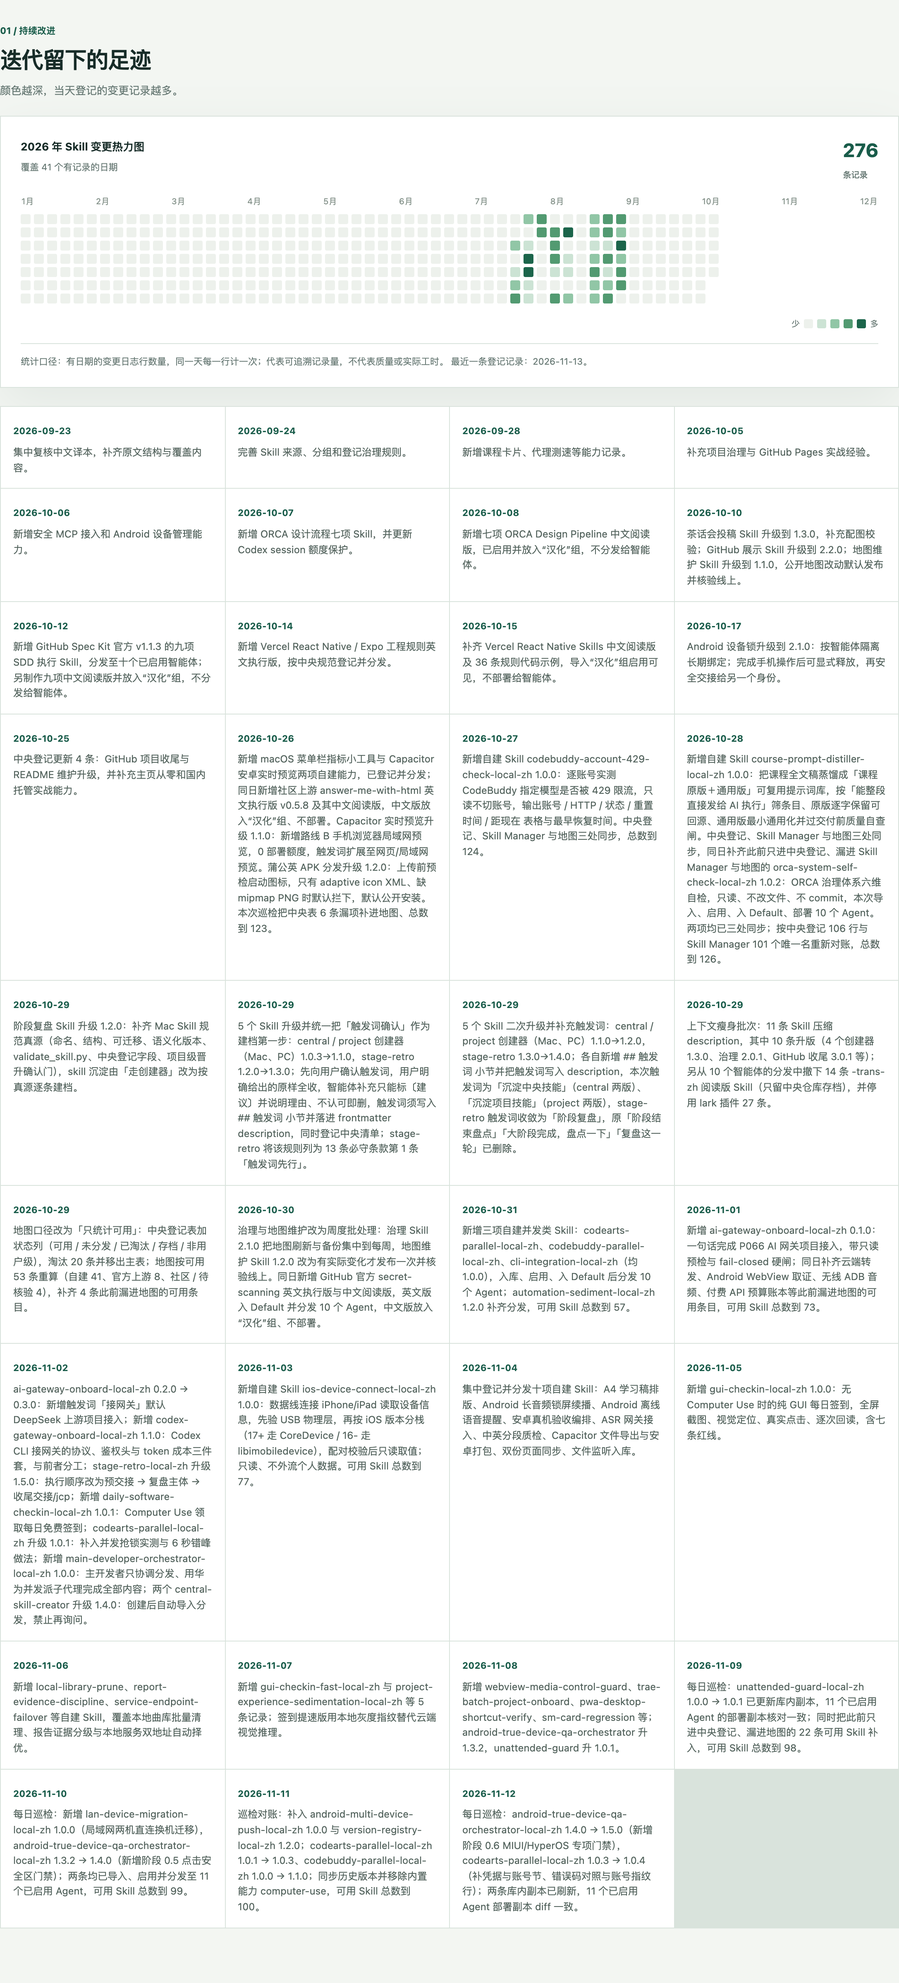
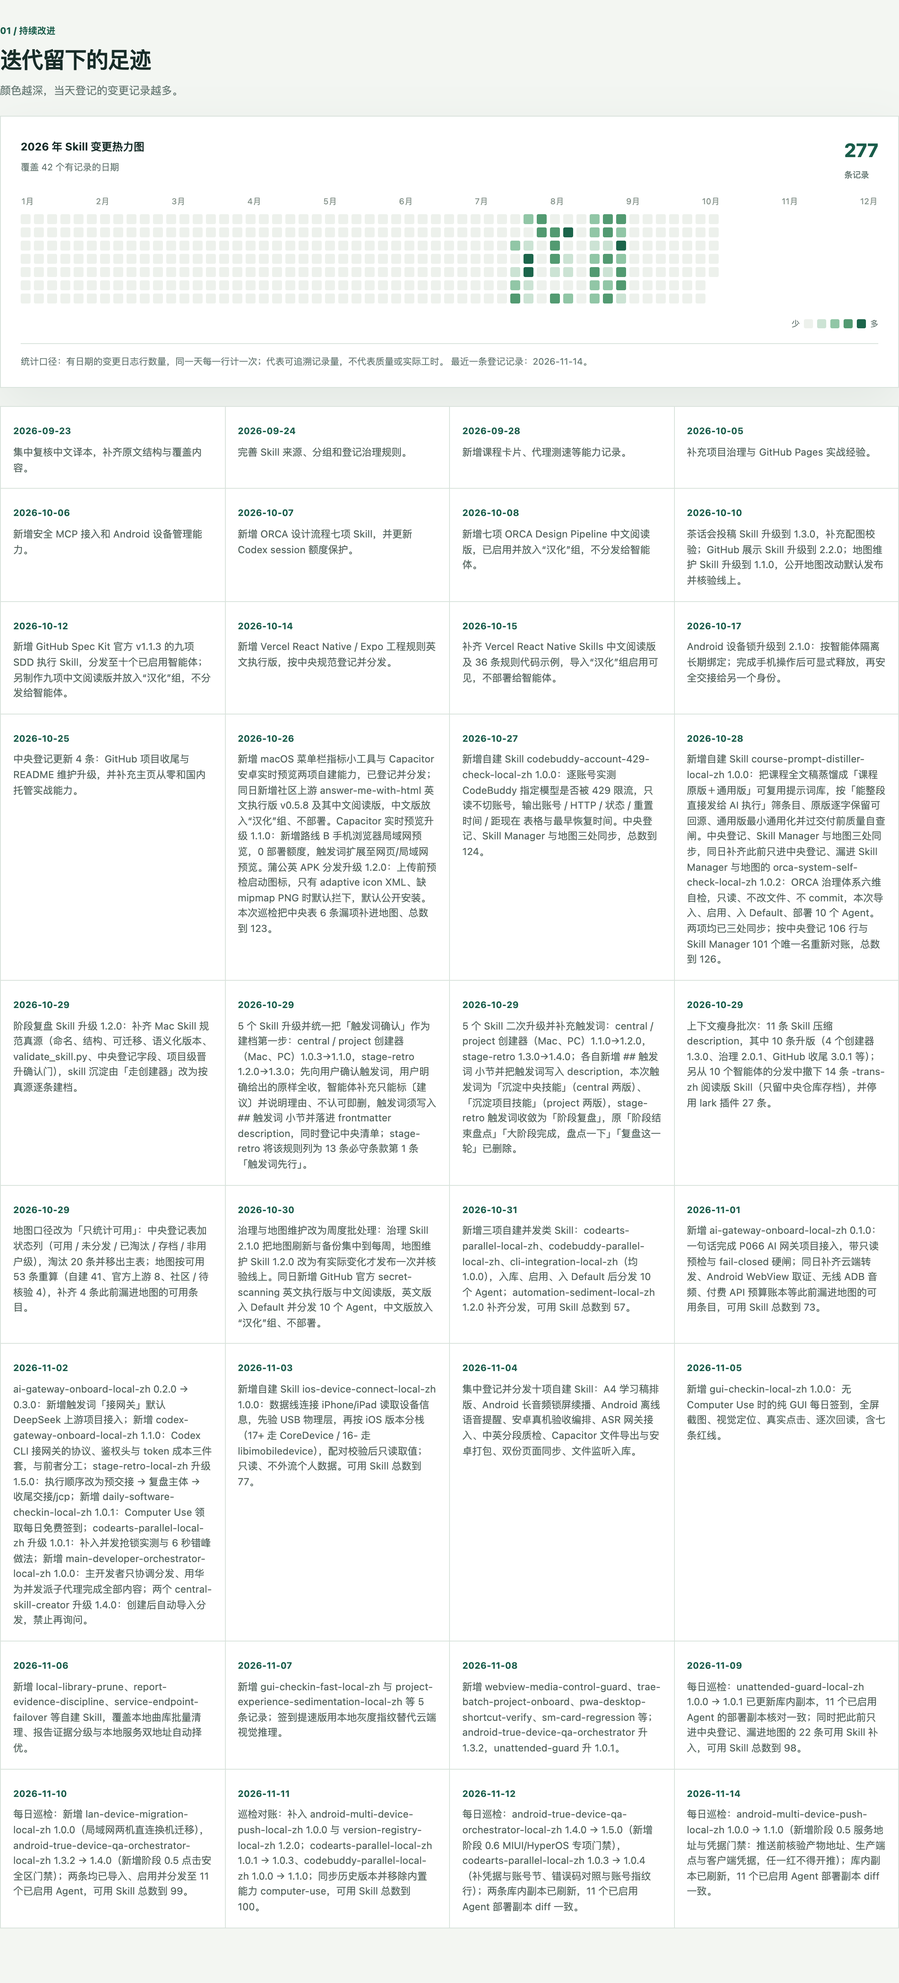
巡检：同步 2026-11-15 技能地图（android 多机推送 1.1.0 / 热力 277）

Changed region(s): [[0.7397, 0.8699, 1.0, 0.9942], [0.9554, 0.0621, 0.9862, 0.0932]]

diff --git a/index.html b/index.html
@@ -119,7 +119,7 @@
     }
     document.getElementById('heatMonths').innerHTML=['1月','2月','3月','4月','5月','6月','7月','8月','9月','10月','11月','12月'].map(x=>`<span>${x}</span>`).join('');
     const dated=[...data.events].sort((a,b)=>b.date.localeCompare(a.date));const latest=dated[0]?.date||'—';document.getElementById('heatCaption').textContent=`统计口径：${data.countDefinition} 最近一条登记记录：${latest}。`;
-    const highlights=[['2026-09-23','集中复核中文译本，补齐原文结构与覆盖内容。'],['2026-09-24','完善 Skill 来源、分组和登记治理规则。'],['2026-09-28','新增课程卡片、代理测速等能力记录。'],['2026-10-05','补充项目治理与 GitHub Pages 实战经验。'],['2026-10-06','新增安全 MCP 接入和 Android 设备管理能力。'],['2026-10-07','新增 ORCA 设计流程七项 Skill，并更新 Codex session 额度保护。'],['2026-10-08','新增七项 ORCA Design Pipeline 中文阅读版，已启用并放入“汉化”组，不分发给智能体。'],['2026-10-10','茶话会投稿 Skill 升级到 1.3.0，补充配图校验；GitHub 展示 Skill 升级到 2.2.0；地图维护 Skill 升级到 1.1.0，公开地图改动默认发布并核验线上。'],['2026-10-12','新增 GitHub Spec Kit 官方 v1.1.3 的九项 SDD 执行 Skill，分发至十个已启用智能体；另制作九项中文阅读版并放入“汉化”组，不分发给智能体。'],['2026-10-14','新增 Vercel React Native / Expo 工程规则英文执行版，按中央规范登记并分发。'],['2026-10-15','补齐 Vercel React Native Skills 中文阅读版及 36 条规则代码示例，导入“汉化”组启用可见，不部署给智能体。'],['2026-10-17','Android 设备锁升级到 2.1.0：按智能体隔离长期绑定；完成手机操作后可显式释放，再安全交接给另一个身份。'],['2026-10-25','中央登记更新 4 条：GitHub 项目收尾与 README 维护升级，并补充主页从零和国内托管实战能力。'],['2026-10-26','新增 macOS 菜单栏指标小工具与 Capacitor 安卓实时预览两项自建能力，已登记并分发；同日新增社区上游 answer-me-with-html 英文执行版 v0.5.8 及其中文阅读版，中文版放入“汉化”组、不部署。Capacitor 实时预览升级 1.1.0：新增路线 B 手机浏览器局域网预览，0 部署额度，触发词扩展至网页/局域网预览。蒲公英 APK 分发升级 1.2.0：上传前预检启动图标，只有 adaptive icon XML、缺 mipmap PNG 时默认拦下，默认公开安装。本次巡检把中央表 6 条漏项补进地图、总数到 123。'],['2026-10-27','新增自建 Skill codebuddy-account-429-check-local-zh 1.0.0：逐账号实测 CodeBuddy 指定模型是否被 429 限流，只读不切账号，输出账号 / HTTP / 状态 / 重置时间 / 距现在 表格与最早恢复时间。中央登记、Skill Manager 与地图三处同步，总数到 124。'],['2026-10-28','新增自建 Skill course-prompt-distiller-local-zh 1.0.0：把课程全文稿蒸馏成「课程原版＋通用版」可复用提示词库，按「能整段直接发给 AI 执行」筛条目、原版逐字保留可回源、通用版最小通用化并过交付前质量自查闸。中央登记、Skill Manager 与地图三处同步，同日补齐此前只进中央登记、漏进 Skill Manager 与地图的 orca-system-self-check-local-zh 1.0.2：ORCA 治理体系六维自检，只读、不改文件、不 commit，本次导入、启用、入 Default、部署 10 个 Agent。两项均已三处同步；按中央登记 106 行与 Skill Manager 101 个唯一名重新对账，总数到 126。'],['2026-10-29','阶段复盘 Skill 升级 1.2.0：补齐 Mac Skill 规范真源（命名、结构、可迁移、语义化版本、validate_skill.py、中央登记字段、项目级晋升确认门），skill 沉淀由「走创建器」改为按真源逐条建档。'],['2026-10-29','5 个 Skill 升级并统一把「触发词确认」作为建档第一步：central / project 创建器（Mac、PC）1.0.3→1.1.0，stage-retro 1.2.0→1.3.0；先向用户确认触发词，用户明确给出的原样全收，智能体补充只能标〔建议〕并说明理由、不认可即删，触发词须写入 ## 触发词 小节并落进 frontmatter description，同时登记中央清单；stage-retro 将该规则列为 13 条必守条款第 1 条「触发词先行」。'],['2026-10-29','5 个 Skill 二次升级并补充触发词：central / project 创建器（Mac、PC）1.1.0→1.2.0，stage-retro 1.3.0→1.4.0；各自新增 ## 触发词 小节并把触发词写入 description，本次触发词为「沉淀中央技能」（central 两版）、「沉淀项目技能」（project 两版），stage-retro 触发词收敛为「阶段复盘」，原「阶段结束盘点」「大阶段完成，盘点一下」「复盘这一轮」已删除。'],['2026-10-29','上下文瘦身批次：11 条 Skill 压缩 description，其中 10 条升版（4 个创建器 1.3.0、治理 2.0.1、GitHub 收尾 3.0.1 等）；另从 10 个智能体的分发中撤下 14 条 -trans-zh 阅读版 Skill（只留中央仓库存档），并停用 lark 插件 27 条。'],['2026-10-29','地图口径改为「只统计可用」：中央登记表加状态列（可用 / 未分发 / 已淘汰 / 存档 / 非用户级），淘汰 20 条并移出主表；地图按可用 53 条重算（自建 41、官方上游 8、社区 / 待核验 4），补齐 4 条此前漏进地图的可用条目。'],['2026-10-30','治理与地图维护改为周度批处理：治理 Skill 2.1.0 把地图刷新与备份集中到每周，地图维护 Skill 1.2.0 改为有实际变化才发布一次并核验线上。同日新增 GitHub 官方 secret-scanning 英文执行版与中文阅读版，英文版入 Default 并分发 10 个 Agent，中文版放入“汉化”组、不部署。'],['2026-10-31','新增三项自建并发类 Skill：codearts-parallel-local-zh、codebuddy-parallel-local-zh、cli-integration-local-zh（均 1.0.0），入库、启用、入 Default 后分发 10 个 Agent；automation-sediment-local-zh 1.2.0 补齐分发，可用 Skill 总数到 57。'],['2026-11-01','新增 ai-gateway-onboard-local-zh 0.1.0：一句话完成 P066 AI 网关项目接入，带只读预检与 fail-closed 硬闸；同日补齐云端转发、Android WebView 取证、无线 ADB 音频、付费 API 预算账本等此前漏进地图的可用条目，可用 Skill 总数到 73。'],['2026-11-02','ai-gateway-onboard-local-zh 0.2.0 → 0.3.0：新增触发词「接网关」默认 DeepSeek 上游项目接入；新增 codex-gateway-onboard-local-zh 1.1.0：Codex CLI 接网关的协议、鉴权头与 token 成本三件套，与前者分工；stage-retro-local-zh 升级 1.5.0：执行顺序改为预交接 → 复盘主体 → 收尾交接/jcp；新增 daily-software-checkin-local-zh 1.0.1：Computer Use 领取每日免费签到；codearts-parallel-local-zh 升级 1.0.1：补入并发抢锁实测与 6 秒错峰做法；新增 main-developer-orchestrator-local-zh 1.0.0：主开发者只协调分发、用华为并发派子代理完成全部内容；两个 central-skill-creator 升级 1.4.0：创建后自动导入分发，禁止再询问。'],['2026-11-03','新增自建 Skill ios-device-connect-local-zh 1.0.0：数据线连接 iPhone/iPad 读取设备信息，先验 USB 物理层，再按 iOS 版本分栈（17+ 走 CoreDevice / 16- 走 libimobiledevice），配对校验后只读取值；只读、不外流个人数据。可用 Skill 总数到 77。'],['2026-11-04','集中登记并分发十项自建 Skill：A4 学习稿排版、Android 长音频锁屏续播、Android 离线语音提醒、安卓真机验收编排、ASR 网关接入、中英分段质检、Capacitor 文件导出与安卓打包、双份页面同步、文件监听入库。'],['2026-11-05','新增 gui-checkin-local-zh 1.0.0：无 Computer Use 时的纯 GUI 每日签到，全屏截图、视觉定位、真实点击、逐次回读，含七条红线。'],['2026-11-06','新增 local-library-prune、report-evidence-discipline、service-endpoint-failover 等自建 Skill，覆盖本地曲库批量清理、报告证据分级与本地服务双地址自动择优。'],['2026-11-07','新增 gui-checkin-fast-local-zh 与 project-experience-sedimentation-local-zh 等 5 条记录；签到提速版用本地灰度指纹替代云端视觉推理。'],['2026-11-08','新增 webview-media-control-guard、trae-batch-project-onboard、pwa-desktop-shortcut-verify、sm-card-regression 等；android-true-device-qa-orchestrator 升 1.3.2，unattended-guard 升 1.0.1。'],['2026-11-09','每日巡检：unattended-guard-local-zh 1.0.0 → 1.0.1 已更新库内副本，11 个已启用 Agent 的部署副本核对一致；同时把此前只进中央登记、漏进地图的 22 条可用 Skill 补入，可用 Skill 总数到 98。'],['2026-11-10','每日巡检：新增 lan-device-migration-local-zh 1.0.0（局域网两机直连换机迁移），android-true-device-qa-orchestrator-local-zh 1.3.2 → 1.4.0（新增阶段 0.5 点击安全区门禁）；两条均已导入、启用并分发至 11 个已启用 Agent，可用 Skill 总数到 99。'],['2026-11-11','巡检对账：补入 android-multi-device-push-local-zh 1.0.0 与 version-registry-local-zh 1.2.0；codearts-parallel-local-zh 1.0.1 → 1.0.3、codebuddy-parallel-local-zh 1.0.0 → 1.1.0；同步历史版本并移除内置能力 computer-use，可用 Skill 总数到 100。'],['2026-11-12','每日巡检：android-true-device-qa-orchestrator-local-zh 1.4.0 → 1.5.0（新增阶段 0.6 MIUI/HyperOS 专项门禁），codearts-parallel-local-zh 1.0.3 → 1.0.4（补凭据与账号节、错误码对照与账号指纹行）；两条库内副本已刷新，11 个已启用 Agent 部署副本 diff 一致。']];
+    const highlights=[['2026-09-23','集中复核中文译本，补齐原文结构与覆盖内容。'],['2026-09-24','完善 Skill 来源、分组和登记治理规则。'],['2026-09-28','新增课程卡片、代理测速等能力记录。'],['2026-10-05','补充项目治理与 GitHub Pages 实战经验。'],['2026-10-06','新增安全 MCP 接入和 Android 设备管理能力。'],['2026-10-07','新增 ORCA 设计流程七项 Skill，并更新 Codex session 额度保护。'],['2026-10-08','新增七项 ORCA Design Pipeline 中文阅读版，已启用并放入“汉化”组，不分发给智能体。'],['2026-10-10','茶话会投稿 Skill 升级到 1.3.0，补充配图校验；GitHub 展示 Skill 升级到 2.2.0；地图维护 Skill 升级到 1.1.0，公开地图改动默认发布并核验线上。'],['2026-10-12','新增 GitHub Spec Kit 官方 v1.1.3 的九项 SDD 执行 Skill，分发至十个已启用智能体；另制作九项中文阅读版并放入“汉化”组，不分发给智能体。'],['2026-10-14','新增 Vercel React Native / Expo 工程规则英文执行版，按中央规范登记并分发。'],['2026-10-15','补齐 Vercel React Native Skills 中文阅读版及 36 条规则代码示例，导入“汉化”组启用可见，不部署给智能体。'],['2026-10-17','Android 设备锁升级到 2.1.0：按智能体隔离长期绑定；完成手机操作后可显式释放，再安全交接给另一个身份。'],['2026-10-25','中央登记更新 4 条：GitHub 项目收尾与 README 维护升级，并补充主页从零和国内托管实战能力。'],['2026-10-26','新增 macOS 菜单栏指标小工具与 Capacitor 安卓实时预览两项自建能力，已登记并分发；同日新增社区上游 answer-me-with-html 英文执行版 v0.5.8 及其中文阅读版，中文版放入“汉化”组、不部署。Capacitor 实时预览升级 1.1.0：新增路线 B 手机浏览器局域网预览，0 部署额度，触发词扩展至网页/局域网预览。蒲公英 APK 分发升级 1.2.0：上传前预检启动图标，只有 adaptive icon XML、缺 mipmap PNG 时默认拦下，默认公开安装。本次巡检把中央表 6 条漏项补进地图、总数到 123。'],['2026-10-27','新增自建 Skill codebuddy-account-429-check-local-zh 1.0.0：逐账号实测 CodeBuddy 指定模型是否被 429 限流，只读不切账号，输出账号 / HTTP / 状态 / 重置时间 / 距现在 表格与最早恢复时间。中央登记、Skill Manager 与地图三处同步，总数到 124。'],['2026-10-28','新增自建 Skill course-prompt-distiller-local-zh 1.0.0：把课程全文稿蒸馏成「课程原版＋通用版」可复用提示词库，按「能整段直接发给 AI 执行」筛条目、原版逐字保留可回源、通用版最小通用化并过交付前质量自查闸。中央登记、Skill Manager 与地图三处同步，同日补齐此前只进中央登记、漏进 Skill Manager 与地图的 orca-system-self-check-local-zh 1.0.2：ORCA 治理体系六维自检，只读、不改文件、不 commit，本次导入、启用、入 Default、部署 10 个 Agent。两项均已三处同步；按中央登记 106 行与 Skill Manager 101 个唯一名重新对账，总数到 126。'],['2026-10-29','阶段复盘 Skill 升级 1.2.0：补齐 Mac Skill 规范真源（命名、结构、可迁移、语义化版本、validate_skill.py、中央登记字段、项目级晋升确认门），skill 沉淀由「走创建器」改为按真源逐条建档。'],['2026-10-29','5 个 Skill 升级并统一把「触发词确认」作为建档第一步：central / project 创建器（Mac、PC）1.0.3→1.1.0，stage-retro 1.2.0→1.3.0；先向用户确认触发词，用户明确给出的原样全收，智能体补充只能标〔建议〕并说明理由、不认可即删，触发词须写入 ## 触发词 小节并落进 frontmatter description，同时登记中央清单；stage-retro 将该规则列为 13 条必守条款第 1 条「触发词先行」。'],['2026-10-29','5 个 Skill 二次升级并补充触发词：central / project 创建器（Mac、PC）1.1.0→1.2.0，stage-retro 1.3.0→1.4.0；各自新增 ## 触发词 小节并把触发词写入 description，本次触发词为「沉淀中央技能」（central 两版）、「沉淀项目技能」（project 两版），stage-retro 触发词收敛为「阶段复盘」，原「阶段结束盘点」「大阶段完成，盘点一下」「复盘这一轮」已删除。'],['2026-10-29','上下文瘦身批次：11 条 Skill 压缩 description，其中 10 条升版（4 个创建器 1.3.0、治理 2.0.1、GitHub 收尾 3.0.1 等）；另从 10 个智能体的分发中撤下 14 条 -trans-zh 阅读版 Skill（只留中央仓库存档），并停用 lark 插件 27 条。'],['2026-10-29','地图口径改为「只统计可用」：中央登记表加状态列（可用 / 未分发 / 已淘汰 / 存档 / 非用户级），淘汰 20 条并移出主表；地图按可用 53 条重算（自建 41、官方上游 8、社区 / 待核验 4），补齐 4 条此前漏进地图的可用条目。'],['2026-10-30','治理与地图维护改为周度批处理：治理 Skill 2.1.0 把地图刷新与备份集中到每周，地图维护 Skill 1.2.0 改为有实际变化才发布一次并核验线上。同日新增 GitHub 官方 secret-scanning 英文执行版与中文阅读版，英文版入 Default 并分发 10 个 Agent，中文版放入“汉化”组、不部署。'],['2026-10-31','新增三项自建并发类 Skill：codearts-parallel-local-zh、codebuddy-parallel-local-zh、cli-integration-local-zh（均 1.0.0），入库、启用、入 Default 后分发 10 个 Agent；automation-sediment-local-zh 1.2.0 补齐分发，可用 Skill 总数到 57。'],['2026-11-01','新增 ai-gateway-onboard-local-zh 0.1.0：一句话完成 P066 AI 网关项目接入，带只读预检与 fail-closed 硬闸；同日补齐云端转发、Android WebView 取证、无线 ADB 音频、付费 API 预算账本等此前漏进地图的可用条目，可用 Skill 总数到 73。'],['2026-11-02','ai-gateway-onboard-local-zh 0.2.0 → 0.3.0：新增触发词「接网关」默认 DeepSeek 上游项目接入；新增 codex-gateway-onboard-local-zh 1.1.0：Codex CLI 接网关的协议、鉴权头与 token 成本三件套，与前者分工；stage-retro-local-zh 升级 1.5.0：执行顺序改为预交接 → 复盘主体 → 收尾交接/jcp；新增 daily-software-checkin-local-zh 1.0.1：Computer Use 领取每日免费签到；codearts-parallel-local-zh 升级 1.0.1：补入并发抢锁实测与 6 秒错峰做法；新增 main-developer-orchestrator-local-zh 1.0.0：主开发者只协调分发、用华为并发派子代理完成全部内容；两个 central-skill-creator 升级 1.4.0：创建后自动导入分发，禁止再询问。'],['2026-11-03','新增自建 Skill ios-device-connect-local-zh 1.0.0：数据线连接 iPhone/iPad 读取设备信息，先验 USB 物理层，再按 iOS 版本分栈（17+ 走 CoreDevice / 16- 走 libimobiledevice），配对校验后只读取值；只读、不外流个人数据。可用 Skill 总数到 77。'],['2026-11-04','集中登记并分发十项自建 Skill：A4 学习稿排版、Android 长音频锁屏续播、Android 离线语音提醒、安卓真机验收编排、ASR 网关接入、中英分段质检、Capacitor 文件导出与安卓打包、双份页面同步、文件监听入库。'],['2026-11-05','新增 gui-checkin-local-zh 1.0.0：无 Computer Use 时的纯 GUI 每日签到，全屏截图、视觉定位、真实点击、逐次回读，含七条红线。'],['2026-11-06','新增 local-library-prune、report-evidence-discipline、service-endpoint-failover 等自建 Skill，覆盖本地曲库批量清理、报告证据分级与本地服务双地址自动择优。'],['2026-11-07','新增 gui-checkin-fast-local-zh 与 project-experience-sedimentation-local-zh 等 5 条记录；签到提速版用本地灰度指纹替代云端视觉推理。'],['2026-11-08','新增 webview-media-control-guard、trae-batch-project-onboard、pwa-desktop-shortcut-verify、sm-card-regression 等；android-true-device-qa-orchestrator 升 1.3.2，unattended-guard 升 1.0.1。'],['2026-11-09','每日巡检：unattended-guard-local-zh 1.0.0 → 1.0.1 已更新库内副本，11 个已启用 Agent 的部署副本核对一致；同时把此前只进中央登记、漏进地图的 22 条可用 Skill 补入，可用 Skill 总数到 98。'],['2026-11-10','每日巡检：新增 lan-device-migration-local-zh 1.0.0（局域网两机直连换机迁移），android-true-device-qa-orchestrator-local-zh 1.3.2 → 1.4.0（新增阶段 0.5 点击安全区门禁）；两条均已导入、启用并分发至 11 个已启用 Agent，可用 Skill 总数到 99。'],['2026-11-11','巡检对账：补入 android-multi-device-push-local-zh 1.0.0 与 version-registry-local-zh 1.2.0；codearts-parallel-local-zh 1.0.1 → 1.0.3、codebuddy-parallel-local-zh 1.0.0 → 1.1.0；同步历史版本并移除内置能力 computer-use，可用 Skill 总数到 100。'],['2026-11-12','每日巡检：android-true-device-qa-orchestrator-local-zh 1.4.0 → 1.5.0（新增阶段 0.6 MIUI/HyperOS 专项门禁），codearts-parallel-local-zh 1.0.3 → 1.0.4（补凭据与账号节、错误码对照与账号指纹行）；两条库内副本已刷新，11 个已启用 Agent 部署副本 diff 一致。'],['2026-11-14','每日巡检：android-multi-device-push-local-zh 1.0.0 → 1.1.0（新增阶段 0.5 服务地址与凭据门禁：推送前核验产物地址、生产端点与客户端凭据，任一红不得开推）；库内副本已刷新，11 个已启用 Agent 部署副本 diff 一致。']];
     document.getElementById('recent').innerHTML=highlights.map(([date,text])=>`<article><time>${date}</time><p>${escapeHtml(text)}</p></article>`).join('');
   }
   load().catch(err=>{document.getElementById('skillRows').innerHTML=`<tr><td colspan="5" class="empty">${escapeHtml(err.message)}。请稍后刷新页面。</td></tr>`;document.getElementById('heatSub').textContent='迭代记录暂时不可用'});

diff --git a/README.en.md b/README.en.md
@@ -26,7 +26,7 @@ Domains include life management, travel, requirements, project collaboration, UI
 
 ## Public data snapshot
 
-The public page reflects a data snapshot from **2026-11-13**, with 101 “available” Skills. Only entries marked “available” in the central registry are counted; archived, undistributed, and non-user-level entries are excluded. Translations and their English originals are listed separately. Community contributions and entries with unverified sources are labeled “Community / Unverified.”
+The public page reflects a data snapshot from **2026-11-14**, with 101 “available” Skills. Only entries marked “available” in the central registry are counted; archived, undistributed, and non-user-level entries are excluded. Translations and their English originals are listed separately. Community contributions and entries with unverified sources are labeled “Community / Unverified.”
 
 | Source | Count | Description |
 | --- | ---: | --- |

diff --git a/README.md b/README.md
@@ -26,7 +26,7 @@
 
 ## 当前公开数据
 
-公开页面的数据快照截至 **2026-11-13**，共 101 个「可用」Skill。口径只统计中央登记中状态为「可用」的条目；存档、未分发、非用户级条目不进入地图。翻译版与英文原版作为独立条目展示；社区作品和来源尚未确认的条目归入“社区 / 待核验”。
+公开页面的数据快照截至 **2026-11-14**，共 101 个「可用」Skill。口径只统计中央登记中状态为「可用」的条目；存档、未分发、非用户级条目不进入地图。翻译版与英文原版作为独立条目展示；社区作品和来源尚未确认的条目归入“社区 / 待核验”。
 
 | 来源 | 数量 | 说明 |
 | --- | ---: | --- |
